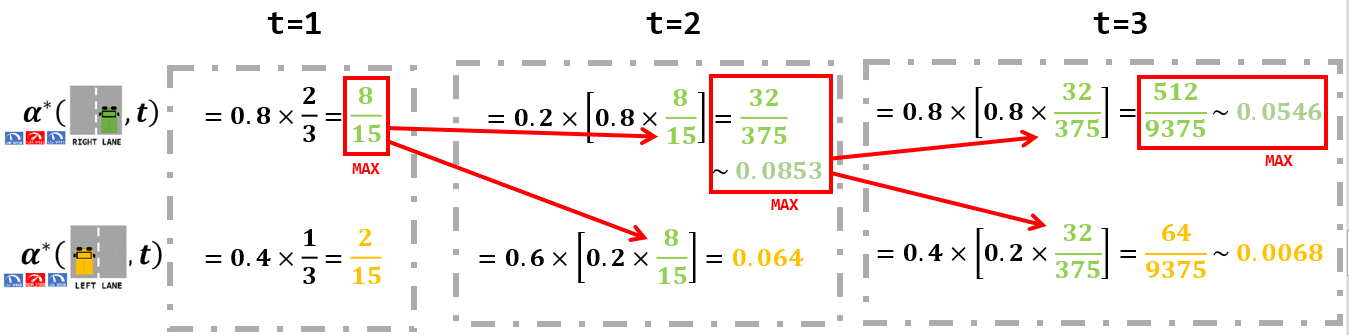
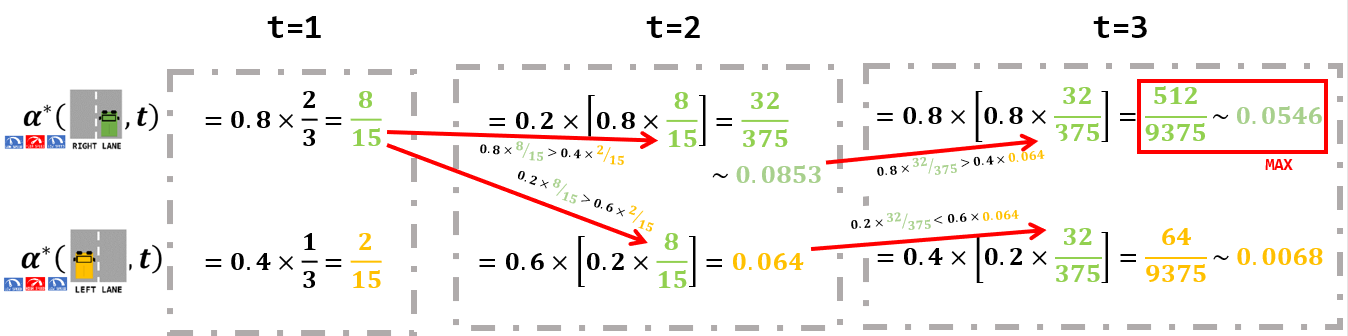
fix - correct viterbi algo

diff --git a/README.md b/README.md
@@ -682,68 +682,75 @@ Let's count how many times each `fibo_vanilla_recursive(i)` is called when compu
 
 ### Viterbi algorithm: similar to the (`alpha`) Forward Algorithm, with `MAX()` instead of `SUM()`
 
-The problem is a maximization:
-- Find the hidden state sequence [`lane_t=1`, `lane_t=2`, `lane_t=3`] that maximizes the joint probability `P`([`lane_t=1`, `lane_t=2`, `lane_t=3`] and [`low speed` (`t=1`), `high speed` (`t=2`), `low speed` (`t=3`)])
+This is a maximization problem:
+- The goal is to **find the hidden state sequence** [`lane_t=1`, `lane_t=2`, `lane_t=3`] that **maximizes the joint probability** `P`([`lane_t=1`, `lane_t=2`, `lane_t=3`] and [`low speed` (`t=1`), `high speed` (`t=2`), `low speed` (`t=3`)])
 
-Let's call `L*` the hidden state sequence:
-- `L*` = `argmax_over_L1_L2_L3`(`P`([`lane_t=1`, `lane_t=2`, `lane_t=3`] and [`low speed` (`t=1`), `high speed` (`t=2`), `low speed` (`t=3`)]))
-- The joint probability can be turned to a sum of conditionnal probabilities (simplified using the properties of the HMM structure):
+Let's call **`L\*`** the **optimal hidden state sequence**, and let's note `L1` = `lane_t=1`, `L2` = `lane_t=2` and `L3` = `lane_t=3`:
+- `L*` = `argmax_over_L1_L2_L3`(`P`([`L1`, `L2`, `L3`] and [`low speed` (`t=1`), `high speed` (`t=2`), `low speed` (`t=3`)]))
+- This **joint probability** can be turned to a **sum of conditionnal probabilities**:
 - `L*` = `argmax_over_L1_L2_L3`(`term_1` `*` `term_2` `*` `term_3`)
 - `L*` = `argmax_over_L3`(`argmax_over_L2`(`argmax_over_L1`(`term_1` `*` `term_2` `*` `term_3`)))
-- with:
-- `term_1` = `P`(`lane_t=1`) `*` `P`( `low speed` (`t=1`) given `lane_t=1`) `*` (`P`(`lane_t=2` given `lane_t=1`)
-- `term_2` = `P`(`high speed` (`t=2`) given `lane_t=2`]) `*` (`P`( `lane_t=3` given `lane_t=2`])
-- `term_3` = `P`(`low speed` (`t=3`) given `lane_t=3`])
-- maximizing over [`lane_t=1`, `lane_t=2`, `lane_t=3`] is equivalent to maximizing over [`lane_t=1`] over [`lane_t=2`] over [`lane_t=3`]
-- therefore let's group the terms that depend on what is maximized:
+- With (simplified using the conditional independance of the HMM structure):
+- `term_1` = `P`(`L1`) `*` `P`(`low speed` (`t=1`) given `L1`) `*` (`P`(`L2` given `L1`)
+- `term_2` = `P`(`high speed` (`t=2`) given `L2`]) `*` (`P`(`L3` given `L2`])
+- `term_3` = `P`(`low speed` (`t=3`) given `L3`])
+- Maximizing over [`L1`, `L2`, `L3`] is equivalent to maximizing over [`L1`] over [`L2`] over [`L3`]
+- Therefore let's group the terms that depend on what is maximized:
 - `L*` = `argmax_over_L3`(`term_3` `*` `argmax_over_L2`(`term_2` `*` `argmax_over_L1`(`term_1`)))
-- Now, we can start from the right side, solve the maximization over `lane_t=1` (it does not depend of `lane_t=2`)
-- Then store this result in memory and use it to solve the maximization over `lane_t=2`
-- Finally use the solve the maximization over `lane_t=3`
-- This is the idea of the dynamic programming approach.
+- Now, we can **start from the right side**, solving the **maximization over `L1`** (it does not depend of `L2`)
+- Then **store this result in memory and use it** to solve the **maximization over `L2`**
+- Finally **use the retult** to solve the **maximization over `L3`**
+- This is the idea of the **Dynamic Programming** approach.
 
-Similar to the `alpha`, `beta` and `pi` variables, let's introduce `alpha*(i, t)`:
-- `alpha*(i, t)` = `P`([`low speed` (`t=1`), ..., `___ speed` (`t=t`)] **and** [`lane_t=1`, ..., `lane_t=t-1`] being optimal **and** `lane_t` `=` `i`)
-- It can be noted that `alpha*(i, t)` is similar to `alpha(i, t)`:
-	- Except that `alpha(i, t)` did not have the term _"and_ [`lane_t=1`, ... `lane_t=t-1`] _being_ _optimal"_ 
-	- Instead, `alpha(i, t)` was marginalizing over [`lane_t=1`, ... `lane_t=t-1`]
-	- Here, we fix their value to the optimal sequence for the time [`1`, `t-1`]
-- A recursion rule can be establish:
-	- Using the fact that "lane_t=1`, ..., `lane_t=t`] being optimal" can be written `max_over_j`("[`lane_t=1`, ..., `lane_t=t-1`] being optimal **and** `lane_t=t` `=` `j`")
-		- The value that maximizes this quantity is the optimal value of `lane_t=t` (`t-th` element in `L*`)
-	- Then decompose the joint probability into some conditional probability and simplify using the **conditional independance**:
-	- It yields to: `alpha*(i, t+1)` = `P`( `speed_t+1` given `lane_t+1` `=` `i`]) `*` `P`( `lane_t+1` given `lane_t`]) * `max_over_j`[`alpha*(i, t)`]
-	- Again, similar to the `alpha` construction, except that the elements at `t+1` are constructed using the `max` among elements at `t` instead of summing all elements at `t`.
-	- **It is important, when solving the `max()`, to store the `argmax()`**. It will be used to **construct the best sequence `L*`**.
+Similar to the `alpha`, `beta` and `pi` variables, let's **introduce `alpha\*(i, t)`**:
+- `alpha*(i, t)` = `P`([`observed speed` (`t=1`), ..., `observed speed` (`t=t`)] **and** [`L1`, ..., `Lt-1`] being optimal **and** `lane_t` `=` `i`)
+- It can be noted that **`alpha\*(i, t)` is very similar to `alpha(i, t)`**:
+	- Except that `alpha(i, t)` does not have the term _"and_ [`L1`, ... `Lt-1`] _being_ _optimal"_ 
+	- Instead, **`alpha(i, t)` was marginalizing over [`L1`, ... `Lt-1`]**
+	- Here, **`alpha\*(i, t)`**, their value are **fixed to the optimal sub-sequence for the time [`1`, `t-1`]**
+- A **recursion rule** can be establish:
+	- "[`L1`, ..., `Lt`] being optimal" can be written
+		- `max_over_j`("[`L1`, ..., `Lt-1`] being optimal **and** `Lt` `=` `j`")
+		- And the value that maximizes this quantity is precisely the **optimal value of `Lt\*`** (i.e. ** the `t-th` element in `L\*`**)
+	- Then decompose the **joint probability** into some **conditional probability**
+	- Simplify the expression using the **conditional independance**:
+	- It yields to:
+		- `alpha*(i, t+1)` = `P`(`speed_t+1` given `Lt+1=i`]) `*` `P`(`Lt+1` given `Lt`]) * `max_over_j`[`alpha*(j, t)`]
+	- This is **very similar to the `alpha` construction**, except that the elements at `t+1` are constructed **using the `max()`** over elements at `t` **instead of summing** all elements at `t`.
+	- **It is important, when solving the `max()`, to store the `argmax()`, i.e. the `lane` that has the higest `alpha\*`**.
+		- This information will be used to **derive the best sequence `L*`**.
 - Initialisation:
 	- For `t=1`, there is no `max()` operation
-	- `alpha*(i, t=1)` `=` `P`( `speed_t=1` given `lane_t=1` `=` `i`]) `*` `P`( `lane_t=1` `=` `i`)
-	- Therefore `alpha*(i, t=1)` == `alpha(i, t=1)`
-- Inferrence: how to find the elements of `L*`?
-	- `argmax()` in the **last column** will give the optimal value of `lane_t=t` (**last element in** `L*`)
-	- then remember the previous `argmax()` used to build the table.
-
-| ![Construction of the `alpha* table` using Dynamic Programming](docs/alpha_star_table.gif "Construction of the `alpha* table` using Dynamic Programming")  | 
+	- Hence `alpha*(i, t=1)` `=` `P`( `speed_t=1` given `L1` `=` `i`]) `*` `P`( `L1` `=` `i`)
+	- In other words, **`alpha\*(i, t=1)` == `alpha(i, t=1)`**
+- Inferrence: how to **find the elements** of the **optimal sequence `L\*`**?
+	- Start by applying `argmax()` in the **last column**. It gives the optimal value of `Lt` (**last state in `L\*`**)
+	- Then, for each timestep `t`, starting by the end, **query the memory** and **find `argmax()` at `t-1`** that has been used to compute this `alpha*`.
+	- This is the reason why it is important to **store the transitions resulting of `max()` operations** when builing the `alpha*` table.
+	
+| ![Construction of the `alpha* table` using Dynamic Programming](docs/alpha_star_table.PNG "Construction of the `alpha* table` using Dynamic Programming")  | 
 |:--:| 
 | *Construction of the `alpha\* table` using Dynamic Programming* |
 
 Applying **`max()` in the last column** gives the **joint probability for the most probable state sequence**:
 - `0.0546` = P([`low speed`, `high speed`, `low speed`] **and** [`right lane`, `right lane`, `right lane`])
-- This result has also been found in the "naive approach" above.
+- This result had already been found in the "naive approach" above.
 
 | ![Use of the `alpha* table` for the **decoding** of an observation sequence](docs/alpha_star_table_decoding.gif "Use of the `alpha* table` for the **decoding** of an observation sequence")  | 
 |:--:| 
 | *Use of the `alpha\* table` for the **marginal probability** of an **observation sequence*** |
 
 
-Decoding only requires only two types of information:
-- the `alpha*` value in the last column
-- the transitions followed between column when building the table (i.e. the `argmax`)
+**Decoding** only requires only two types of information:
+- The `alpha*` values in the **last column**.
+- The **transitions** followed between columns when building the table (i.e. the `argmax`).
 
-In other words, the `alpha*` values in the non-last columns are useless:
-- no `argmax` operation is performed to construct the optimal sequence from the table, except for the last column.
-- **it could well be the case that `alpha\*`(`left_lane`, `t=2`) > `alpha\*`(`right_lane`, `t=2`)**, while `alpha*`(`left_lane`, `t=2`) still remains the `argmax` when building column `t=3`
-- it this case, **`alpha\*`(`right_lane`, `t=2`) would still be chosen** since it is located on the optimal path.
+In other words, **`alpha\*` values in the non-last columns are useless for decoding**:
+- No `argmax()` operation is performed to construct the optimal sequence from the table, except for the last column.
+- It **could be the case** that `alpha\*`(`left_lane`, `t=2`) could be larger than `alpha\*`(`right_lane`, `t=2`).
+- But that due to **the transition probabilities**, it is **not chosen with `argmax()`** in the next column.
+	- remember that the `max()` operation is on the **product `alpha\*` `\*` `transition`**. Not just on `alpha*`.
+- Nevertheless in this case **`alpha\*`(`right_lane`, `t=2`) would still be chosen when building L\*** since it is located on the optimal path.
 
 Answer:
 - [`right_lane`, `right_lane`, `right_lane`] is the **most likely `lane` sequence** if the **observation sequence** is [`low speed`, `high speed`, `low speed`]
@@ -886,3 +893,9 @@ HMM directly models the transition probability and the phenotype probability, an
 It is Bayes Rule that forms the basis of HMM. On the contrary, CRF and MEMM’s based on MaxEnt models over transition and observable features.
 
 "Marginalize over x". Not "Marginalize x"
+
+viterbi converts a maximization problem into a ... problem
+
+The current state is not observable. Instead, each state produces an output with a certain probability (B).
+According to the above definition, βT(i) does not exist.
+Obviously both Forward and Backward algorithms must give the same results for total probabilities P(O) = P(o(1), o(2), ... , o(T) ).
